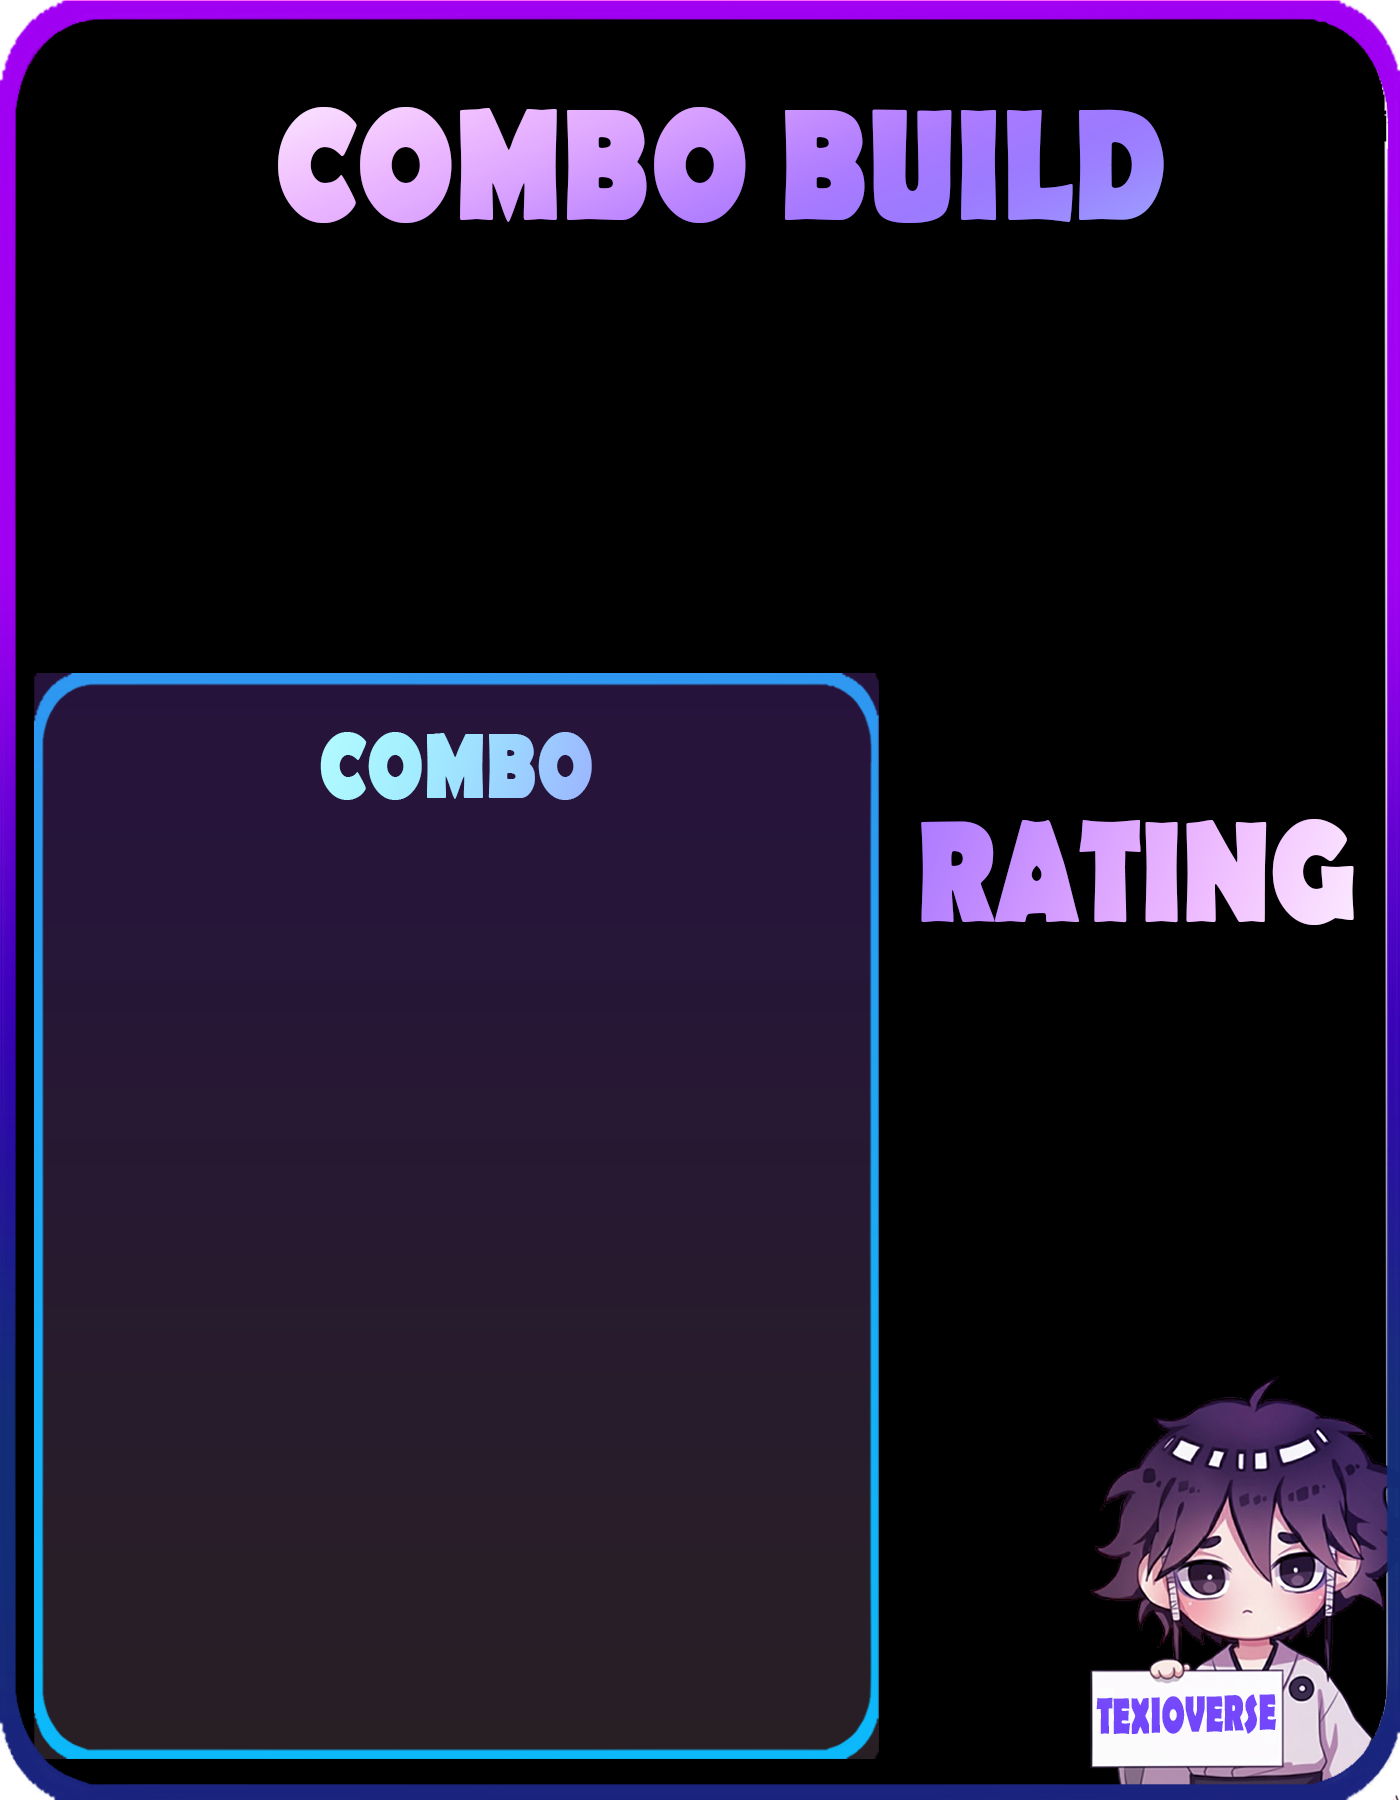
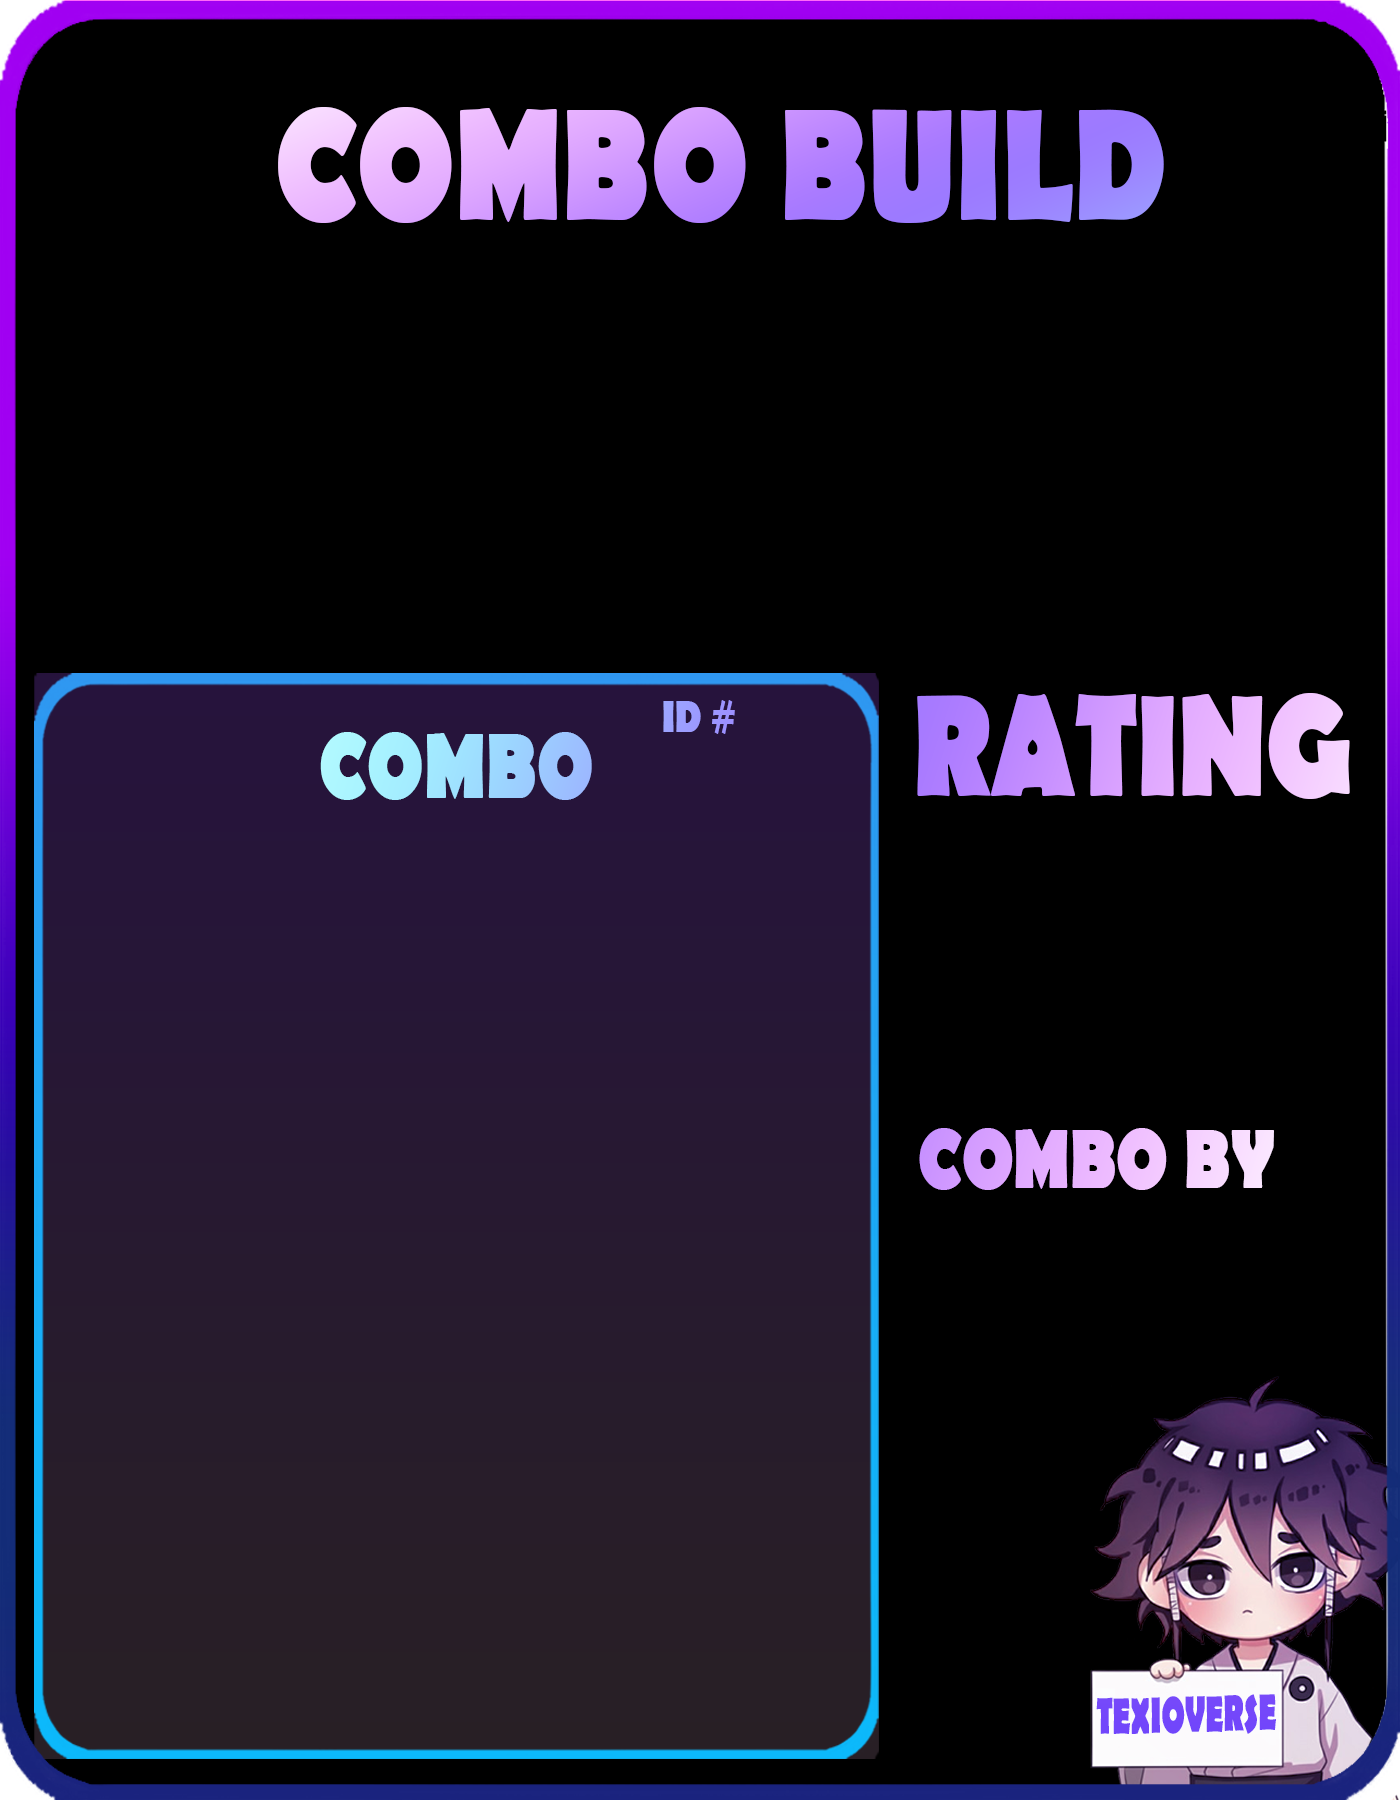
Minor Update
Combo Credits + Combo ID Representation

Changed region(s): [[0.645, 0.3733, 0.9829, 0.5289], [0.645, 0.6222, 0.9214, 0.6844], [0.4607, 0.3733, 0.5221, 0.4044]]

diff --git a/src/LilyBloxFruits/sLilyBloxFruitsCommands.py b/src/LilyBloxFruits/sLilyBloxFruitsCommands.py
@@ -3,6 +3,7 @@ from LilyRulesets.sLilyRulesets import PermissionEvaluator
 import Config.sValueConfig as LilyConfig
 from discord import File
 import LilyManagement.sLilyStaffManagement as LSM
+import LilyModeration.sLilyModeration as mLily
 import re
 
 import Combo.LilyComboManager as LCM
@@ -167,8 +168,9 @@ class LilyBloxFruits(commands.Cog):
                 for base, nested in ast.literal_eval(combo_data_text):
                     combo_ = " ".join(nested)
                     combo_text += f"{base.title()}: {combo_}\n"
-
-                img = CIG.CreateBaseBuildIcon(Item_Icon_List, combo_text=combo_text)
+                name_raw = ctx.author.name or "Unknown"
+                name = re.sub(r'[^A-Za-z ]+', '', name_raw)
+                img = CIG.CreateBaseBuildIcon(Item_Icon_List, combo_text=combo_text, rating_text=f'{combo.get('rating', '0')}/10', combo_id=str(combo['combo_id']), combo_by=name)
                 img_byte_arr = io.BytesIO()
                 img.save(img_byte_arr, format='PNG')
                 img_byte_arr.seek(0)
@@ -189,6 +191,74 @@ class LilyBloxFruits(commands.Cog):
 
         try:
             combo_obj = await LCM.ComboLookup(build.lower())
+            if not combo_obj:
+                await ctx.reply("No matching combo found.")
+                return
+
+            combo_data_text = combo_obj.get('combo_data', '[]')
+            Item_List = {}
+            for key_type in ["fruit", "sword", "fighting_style", "gun"]:
+                if combo_obj.get(key_type):
+                    mapping = {
+                        "fruit": "fruit_icons",
+                        "sword": "sword_icons",
+                        "fighting_style": "fighting_styles",
+                        "gun": "gun_icons"
+                    }
+                    Item_List[combo_obj[key_type]] = mapping[key_type]
+
+            Item_Icon_List = [
+                f'src/ui/{value}/{key.replace(" ", "_")}.png'
+                for key, value in Item_List.items() if key and key.strip()
+            ]
+
+            combo_text = ""
+            for base, nested in ast.literal_eval(combo_data_text):
+                combo_ = " ".join(nested)
+                combo_text += f"{base.title()}: {combo_}\n"
+
+            combo_author_id = combo_obj.get("combo_author")
+            combo_by = None
+
+            if combo_author_id:
+                combo_by = ctx.guild.get_member(int(combo_author_id))
+                if combo_by is None:
+                            try:
+                                combo_by = await ctx.guild.fetch_member(int(combo_author_id))
+                            except discord.NotFound:
+                                    combo_by = None
+
+            name_raw = combo_by.name if combo_by else "Unknown"
+            name = re.sub(r'[^A-Za-z ]+', '', name_raw)
+            img = CIG.CreateBaseBuildIcon(Item_Icon_List, combo_text=combo_text)
+            img_byte_arr = io.BytesIO()
+            img.save(img_byte_arr, format='PNG')
+            img_byte_arr.seek(0)
+
+            imgfile = File(img_byte_arr, filename="image.png")
+            view = CV2.RatingComponent(ctx.author, combo_obj['combo_id'])
+            await ctx.reply(file=imgfile, view=view)
+        except Exception as e:
+            await ctx.reply(f"Exception: {e}")
+
+    @PermissionEvaluator(RoleAllowed=lambda: LSM.GetRoles(('Developer')))
+    @commands.hybrid_command(name='delete_combo', description='deletes a combo by its id')
+    async def delete_combo(self, ctx: commands.Context, combo_id: str):
+        try:
+            row = await LCM.DeleteComboByID(combo_id)
+            if row:
+                await ctx.reply(embed=mLily.SimpleEmbed(f"Successfully deleted combo id {row}"))
+            else:
+                await ctx.reply(embed=mLily.SimpleEmbed(f"Cannot find the combo ID", 'cross'))
+        except Exception as e:
+            await ctx.reply(embed=mLily.SimpleEmbed(f"Exception Occured {e}", 'cross'))
+    
+    @PermissionEvaluator(RoleAllowed=lambda: LSM.GetRoles(('Developer')))
+    @commands.hybrid_command(name='combo_lookup_by_id', description='Lookup a combo by its id')
+    async def combo_lookup_by_id(self, ctx: commands.Context, combo_id: str):
+        await ctx.defer()
+        try:
+            combo_obj = await LCM.ComboLookupByID(combo_id)
             if not combo_obj:
                 await ctx.reply("No matching combo found.")
                 return

diff --git a/src/LilyBloxFruits/sLilyBloxFruitsCore.py b/src/LilyBloxFruits/sLilyBloxFruitsCore.py
@@ -558,8 +558,9 @@ async def MessageEvaluate(bot, message):
                             combo_ = " ".join(nested)
                             combo_text += f"{base.title()}: {combo_}\n"
 
-
-                        img = CIG.CreateBaseBuildIcon(Item_Icon_List, combo_text=combo_text)
+                        name_raw = message.author.name or "Unknown"
+                        name = re.sub(r'[^A-Za-z ]+', '', name_raw)
+                        img = CIG.CreateBaseBuildIcon(Item_Icon_List, combo_text=combo_text, rating_text=f'{combo.get('rating', '0')}/10', combo_id=str(combo['combo_id']), combo_by=name)
                         img_byte_arr = io.BytesIO()
                         img.save(img_byte_arr, format='PNG')
                         img_byte_arr.seek(0)
@@ -601,7 +602,21 @@ async def MessageEvaluate(bot, message):
                             combo_ = " ".join(nested)
                             combo_text += f"{base.title()}: {combo_}\n"
 
-                        img = CIG.CreateBaseBuildIcon(Item_Icon_List, combo_text=combo_text)
+                        combo_author_id = combo.get("combo_author")
+                        combo_by = None
+
+                        if combo_author_id:
+                            combo_by = message.guild.get_member(int(combo_author_id))
+                            if combo_by is None:
+                                try:
+                                    combo_by = await message.guild.fetch_member(int(combo_author_id))
+                                except discord.NotFound:
+                                    combo_by = None
+
+                        name_raw = combo_by.name if combo_by else "Unknown"
+                        name = re.sub(r'[^A-Za-z ]+', '', name_raw)
+
+                        img = CIG.CreateBaseBuildIcon(Item_Icon_List, combo_text=combo_text, rating_text=f'{combo.get('rating', '0')}/10', combo_id=str(combo['combo_id']), combo_by=name)
                         img_byte_arr = io.BytesIO()
                         img.save(img_byte_arr, format='PNG')
                         img_byte_arr.seek(0)

diff --git a/src/ui/sComboImageGenerator.py b/src/ui/sComboImageGenerator.py
@@ -44,7 +44,10 @@ def draw_gradient_text(image, position, text, font, gradient_colors, anchor="lt"
     image.paste(gradient, (int(x), int(y)), gradient)
 
 
-def CreateBaseBuildIcon(icons,combo_text="Ice V\nIce C\nIce Z\nGodhuman X\nGodhuman C\nGodhuman Z",rating_text="10/10",rating_pos=(940, 990),font_path="src/ui/font/Berlin Sans FB Bold.ttf"):
+def CreateBaseBuildIcon(icons,combo_text="Ice V\nIce C\nIce Z\nGodhuman X\nGodhuman C\nGodhuman Z",rating_text="10/10",combo_by="shreespsv",combo_id='1',font_path="src/ui/font/Berlin Sans FB Bold.ttf"):
+    rating_pos=(920, 850)
+    combo_by_pos=(920, 1220)
+    combo_id_pos=(749, 702)
     if not 1 <= len(icons) <= 4:
         raise ValueError("You must provide between 1 and 4 icons.")
     
@@ -147,6 +150,34 @@ def CreateBaseBuildIcon(icons,combo_text="Ice V\nIce C\nIce Z\nGodhuman X\nGodhu
         draw.text(
             (rx, ry),
             rating_text,
+            font=rating_font,
+            fill=(240, 200, 255, 255),
+            anchor="lt"
+        )
+    if combo_by:
+        rx, ry = combo_by_pos
+        try:
+            rating_font = ImageFont.truetype(font_path, 95)
+        except:
+            rating_font = ImageFont.load_default()
+
+        draw.text(
+            (rx, ry),
+            combo_by,
+            font=rating_font,
+            fill=(240, 200, 255, 255),
+            anchor="lt"
+        )
+    if combo_id:
+        rx, ry = combo_id_pos
+        try:
+            rating_font = ImageFont.truetype("src/ui/font/Game Bubble.ttf", 40)
+        except:
+            rating_font = ImageFont.load_default()
+
+        draw.text(
+            (rx, ry),
+            combo_id,
             font=rating_font,
             fill=(240, 200, 255, 255),
             anchor="lt"
